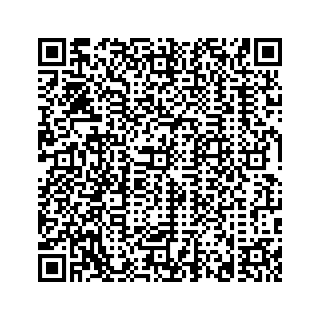
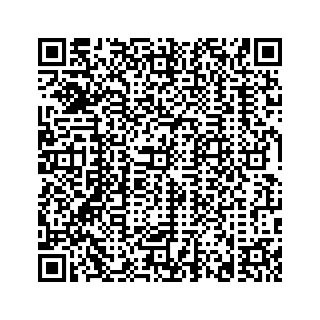
innit

diff --git a/app/Controllers/Home.php b/app/Controllers/Home.php
@@ -117,11 +117,23 @@ class Home extends BaseController
         $arr = array(
             "menu" => "/data_timbang"
         );
+        $where = array ("weight_out" => 0);
         session()->set($arr);
-        $data['timbang'] = $model->selectAll('tbl_weight_scale_temp');
+        $data['timbang'] = $model->getSelect('tbl_weight_scale_temp', $where);
         $data['vendor'] = $model->selectAll('master_vendor');
 
         echo view("data-timbang", $data);
+    }
+
+    public function data_timbang_all()
+    {
+        $model = new Home_model();
+        $arr = array(
+            "menu" => "/data_timbang_all"
+        );
+        session()->set($arr);
+        $data['timbang'] = $model->selectAll('tbl_weight_scale');
+        echo view("data-timbang-all", $data);
     }
 
     public function serialData()
@@ -172,16 +184,26 @@ class Home extends BaseController
         $data['tgl_muat'] = $day."/".$month."/".$year ;
         $data['jam_muat'] = $hour.":".$minute.":".$second; 
         $data['tgl_tebang'] = $tglTebang;
-
-        //cari no transaksi
-        $whereArrCek = array('no_transaksi' => $no_transaksi);
-        $arrCek = $model->getSelect("tbl_weight_scale_temp", $whereArrCek);
-        $numCek = count($arrCek);
-        if($numCek > 0){
-            $data['alert'] = "Data Transaksi sudah pernah di SCAN";
+        
+        $count = count($arr); 
+        if($count > 23){
+            $data['timbangOut'] = $data['call'];
+            $data['timbangIn'] = $arr[23];
         }else{
-            $data['alert'] = "";
+            $data['timbangOut'] = 0;
+            $data['timbangIn'] = $data['call'];
+            //cari no transaksi
+            $whereArrCek = array('no_transaksi' => $no_transaksi);
+            $arrCek = $model->getSelect("tbl_weight_scale_temp", $whereArrCek);
+            $numCek = count($arrCek);
+            if($numCek > 0){
+                $data['alert'] = "Data Transaksi sudah pernah di SCAN";
+            }else{
+                $data['alert'] = "";
+            }
         }
+        
+        
 
         echo json_encode($data);
 
@@ -198,6 +220,7 @@ class Home extends BaseController
         $arrM = explode("/", $this->request->getPost('tgl_muat'));
         $tglMuat = $arrM[2]."-".$arrM[1]."-".$arrM[0]." ".$this->request->getPost('jam_muat');
 
+        $beratIn = $this->request->getPost('berat_in') ;
         $b1 = str_replace("Kg", "", $this->request->getPost('berat_in'));
         $b1 = str_replace(".", "", $b1);
         $b1 = str_replace(",", ".", $b1);
@@ -278,7 +301,7 @@ class Home extends BaseController
             
             '22' => $this->request->getPost('createby'),
             //25 timbang in 
-            '25' => $b1
+            '25' => $beratIn
 
         );
 

diff --git a/app/Views/data-timbang-all.php b/app/Views/data-timbang-all.php
@@ -18,14 +18,14 @@
             <div class="row">
                 <div class="card">
                     <div class="card-body">
-                        <h4>Data Timbang ( Scan Barcode )</h4>
+                        <h4>Data Timbang All</h4>
                     </div>
                     <div class="form-group">
                         <div class="table-responsive">
                             <table class="table table-striped" id="data-timbang" style="width: 100%;"> 
                                 <thead>
                                     <tr>
-                                        <td>QR</td>
+                                        <td></td>
                                         <th>No.</th>
                                         <th>No. Transaksi</th>
                                         <th>Petak</th>
@@ -33,6 +33,8 @@
                                         <th>Kontraktor</th>
                                         <th>Kontraktor Deliv.</th>
                                         <th>Berat Masuk</th>
+                                        <th>Berat Keluar</th>
+                                        <th>Nett</th>
                                     </tr>
                                 </thead>
                                 <tbody>
@@ -59,7 +61,8 @@
                                                 } ?>
                                             <? } ?>
                                             <td><?=number_format($ti['weight_in'], 2, ",", ".")?></td>
-                                            
+                                            <td><?=number_format($ti['weight_out'], 2, ",", ".")?></td>
+                                            <td><?=number_format($ti['weight_in']-$ti['weight_out'], 2, ",", ".")?></td>
                                         </tr>
                                     <? $i++;} ?>
                                 </tbody>

diff --git a/app/Views/wc-program.php b/app/Views/wc-program.php
@@ -371,7 +371,9 @@
         type: "post",
         url: "<?= base_url() ?>/home/serialData",
         success: function(data){
-          document.querySelector("#berat-in").value = data['call'];
+
+          document.querySelector("#berat-in").value = data['timbangIn'];
+          document.querySelector("#berat-out").value = data['timbangOut'];
           
           $("#tipe_tiket").val(data['tipe']);
           $("#get-serial-messages").val("");
@@ -405,12 +407,17 @@
           $("#tgl_tebang").val(data['tgl_tebang']);
           $("#createby").val(data['rd'][22]);
           $("#warning").html(data['alert']);
-          if(data['alert']!=''){
+          if(data['timbangOut']== '0'){
+            $("#cetak-in").fadeIn(500);
+            $("#cetak-out").fadeOut(500);
+           if(data['alert']!=''){
             $("#cetak-in").fadeOut(500);
             $("#cetak-out").fadeOut(500);
-          }else{
-            $("#cetak-in").fadeIn(500);
+           }
+          }else if(data['timbangOut'] != 0){
+            $("#cetak-in").fadeOut(500);
             $("#cetak-out").fadeIn(500);
+            
           }
           
         }
@@ -435,6 +442,7 @@
           }
         })
     })
+
     
 
   </script>

diff --git a/app/Views/temp/barcode-print.php b/app/Views/temp/barcode-print.php
@@ -65,6 +65,11 @@
                                     <td style="text-align: left;"><b><a >Jenis Tebu</a></b></td>
                                     <td style="text-align: right;"><b><a ><?= $timbang->jenis_tebu ?></a></b></td>
                                 </tr>
+                                <tr>
+                                    <td style="text-align: left;"><b><a >Berat Masuk</a></b></td>
+                                    <td style="text-align: right;"><b><a ><?= $timbang->weight_in ?></a></b></td>
+                                </tr>
+
                             </tbody>
                         </table>
                     </div>
@@ -76,7 +81,8 @@
             <td style="text-align: center;"><b><a style="font-size: 20px;">----------- Scan QR -----------</a></b></td>
         </tr>
         <tr>
-            <td style="text-align: center;"><img src="./assets/qr/<?=$file?>.png" ></td>
+            <? $runTime = date('dMYHis'); ?>
+            <td style="text-align: center;"><img src="./assets/qr/<?=$file?>.png?r=<?= $runTime ?>" ></td>
         </tr>
     </table>
 </div>
